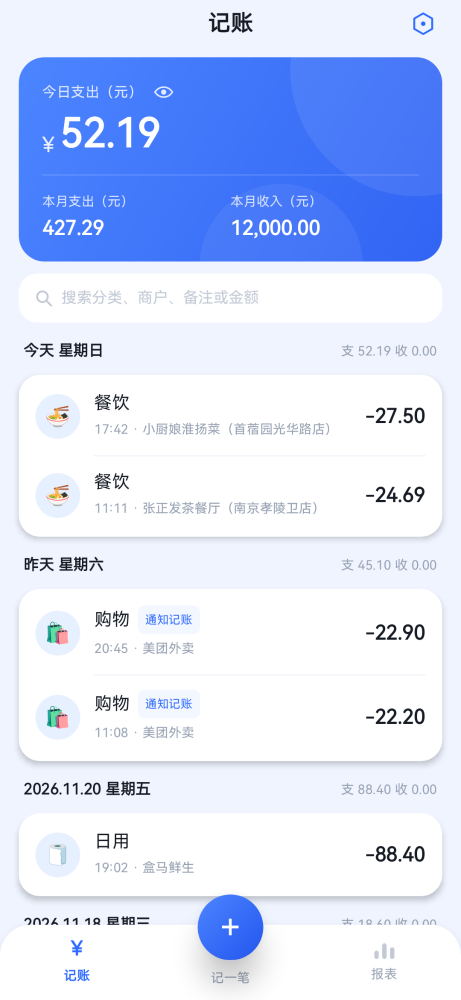
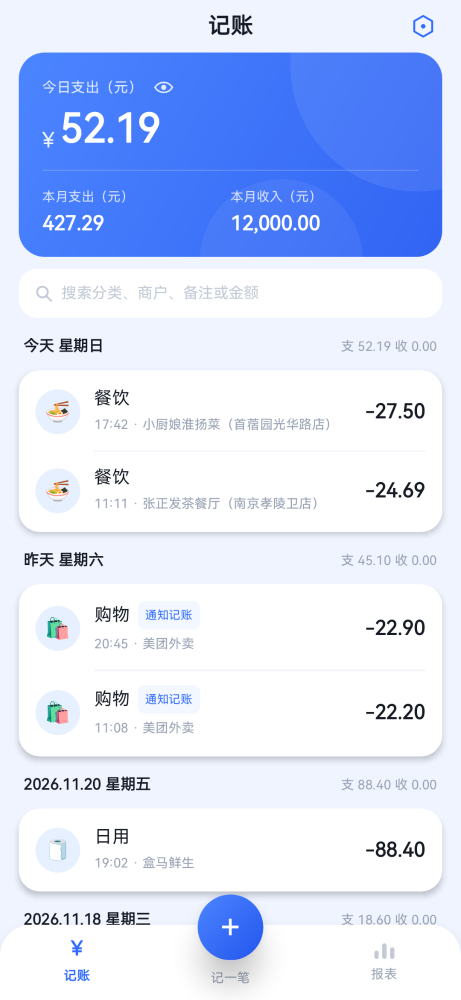
style(home): 顶栏固定，列表在其下方滚动
- 顶栏从 LazyColumn 里移出来放到 Column 顶部，滚动时「记账」和设置按钮始终可见
- 重录首页快照

diff --git a/app/src/main/java/com/aiaccounting/ui/home/HomeScreen.kt b/app/src/main/java/com/aiaccounting/ui/home/HomeScreen.kt
@@ -76,55 +76,59 @@ fun HomeScreen(
 ) {
     var hideAmounts by rememberSaveable { mutableStateOf(false) }
 
-    LazyColumn(
-        modifier = modifier.fillMaxSize(),
-        contentPadding = PaddingValues(start = 16.dp, end = 16.dp, bottom = 84.dp),
-        verticalArrangement = Arrangement.spacedBy(10.dp),
-    ) {
-        item(key = "topbar") {
-            HomeTopBar(onSettingsClick = onSettingsClick)
-        }
+    Column(modifier = modifier.fillMaxSize()) {
+        // 顶栏固定在列表上方，滚动时始终可见
+        HomeTopBar(
+            onSettingsClick = onSettingsClick,
+            modifier = Modifier.padding(horizontal = 16.dp),
+        )
 
-        item(key = "header") {
-            HomeHeader(
-                summary = state.summary,
-                hideAmounts = hideAmounts,
-                onToggleAmounts = { hideAmounts = !hideAmounts },
-            )
-        }
-
-        item(key = "search") {
-            SearchBar(query = state.query, onQueryChange = onQueryChange)
-        }
-
-        if (pendingCount > 0) {
-            item(key = "pending") {
-                PendingBanner(count = pendingCount, onClick = onPendingClick)
+        LazyColumn(
+            modifier = Modifier.fillMaxSize(),
+            contentPadding = PaddingValues(start = 16.dp, end = 16.dp, bottom = 84.dp),
+            verticalArrangement = Arrangement.spacedBy(10.dp),
+        ) {
+            item(key = "header") {
+                HomeHeader(
+                    summary = state.summary,
+                    hideAmounts = hideAmounts,
+                    onToggleAmounts = { hideAmounts = !hideAmounts },
+                )
             }
-        }
 
-        if (state.sections.isEmpty()) {
-            item(key = "empty") {
-                SoftCard(modifier = Modifier.fillMaxWidth()) {
-                    EmptyBlock(
-                        emoji = if (state.isSearching) "🔍" else "🧾",
-                        title = when {
-                            !state.loaded -> "正在加载…"
-                            state.isSearching -> "没有匹配的记录"
-                            else -> "还没有记录"
-                        },
-                        hint = if (state.isSearching) "换个关键词试试" else "点下面的 + 记第一笔",
-                    )
+            item(key = "search") {
+                SearchBar(query = state.query, onQueryChange = onQueryChange)
+            }
+
+            if (pendingCount > 0) {
+                item(key = "pending") {
+                    PendingBanner(count = pendingCount, onClick = onPendingClick)
                 }
             }
-        } else {
-            state.sections.forEach { section ->
-                // 一天一张卡，卡内用细分割线分行（参考图的排版）
-                item(key = "day-${section.date}") {
-                    DayHeader(section)
+
+            if (state.sections.isEmpty()) {
+                item(key = "empty") {
+                    SoftCard(modifier = Modifier.fillMaxWidth()) {
+                        EmptyBlock(
+                            emoji = if (state.isSearching) "🔍" else "🧾",
+                            title = when {
+                                !state.loaded -> "正在加载…"
+                                state.isSearching -> "没有匹配的记录"
+                                else -> "还没有记录"
+                            },
+                            hint = if (state.isSearching) "换个关键词试试" else "点下面的 + 记第一笔",
+                        )
+                    }
                 }
-                item(key = "card-${section.date}") {
-                    DayCard(section = section, onTxClick = onTxClick)
+            } else {
+                state.sections.forEach { section ->
+                    // 一天一张卡，卡内用细分割线分行（参考图的排版）
+                    item(key = "day-${section.date}") {
+                        DayHeader(section)
+                    }
+                    item(key = "card-${section.date}") {
+                        DayCard(section = section, onTxClick = onTxClick)
+                    }
                 }
             }
         }
@@ -132,11 +136,14 @@ fun HomeScreen(
 }
 
 @Composable
-private fun HomeTopBar(onSettingsClick: () -> Unit) {
+private fun HomeTopBar(
+    onSettingsClick: () -> Unit,
+    modifier: Modifier = Modifier,
+) {
     Box(
-        modifier = Modifier
+        modifier = modifier
             .fillMaxWidth()
-            .padding(top = 4.dp, bottom = 2.dp),
+            .padding(top = 6.dp, bottom = 6.dp),
         contentAlignment = Alignment.Center,
     ) {
         Text(
